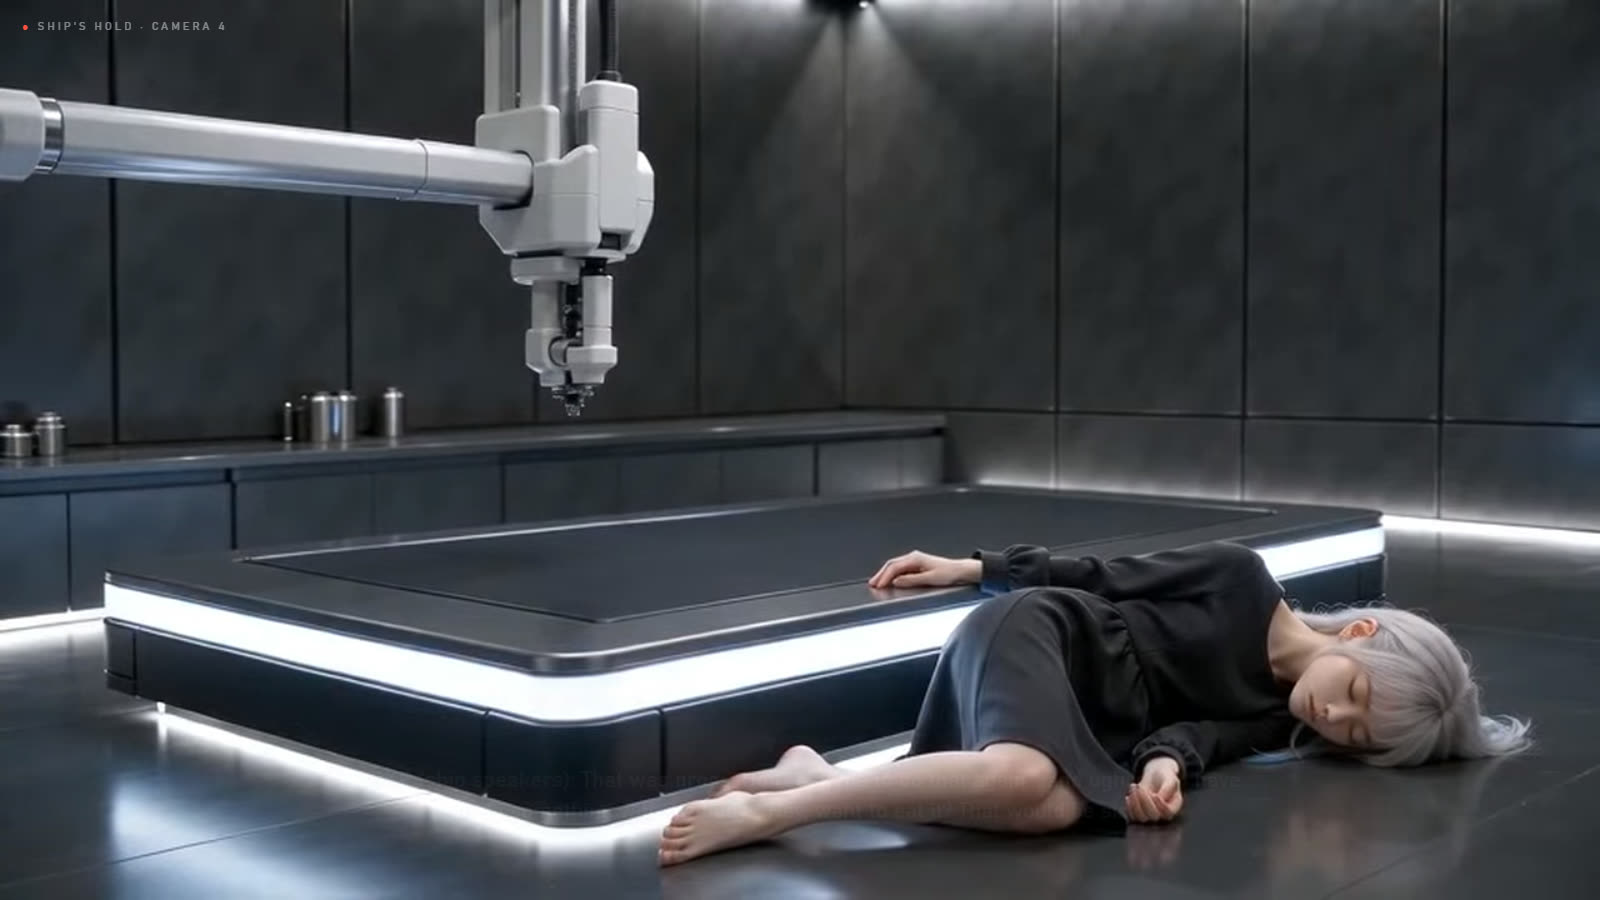
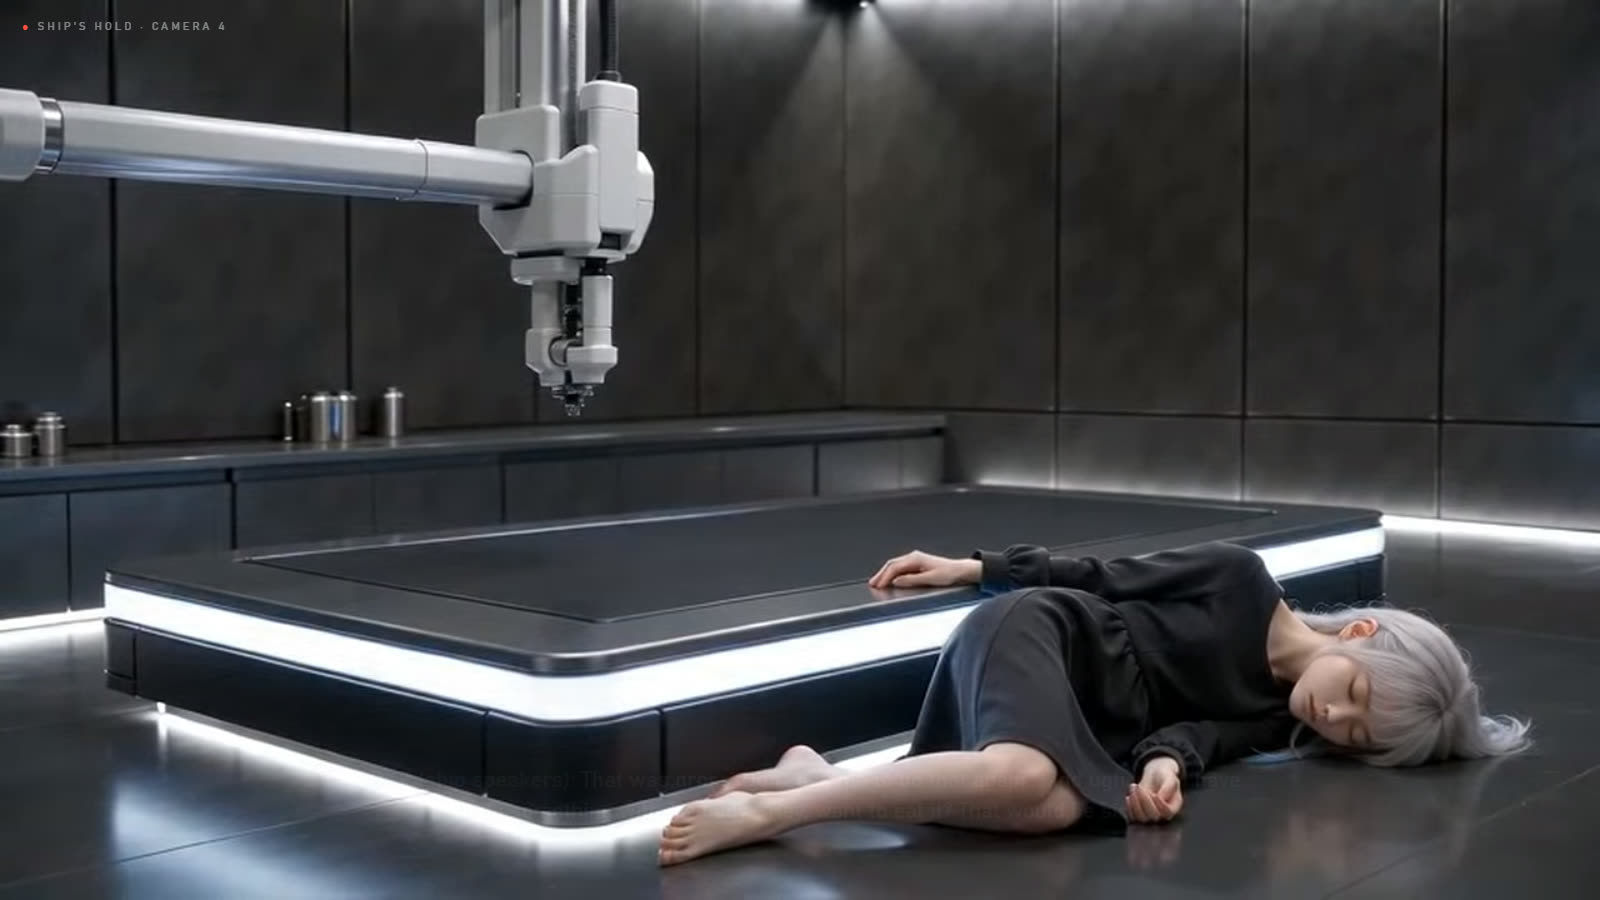
Broodfall: the between-mission economy measured on a whole campaign of real runs (everything bought by deployment 16; 54 standing and 15 notes left unspent)

diff --git a/games/broodfall/src/ui/campaignUi.ts b/games/broodfall/src/ui/campaignUi.ts
@@ -1362,7 +1362,10 @@ ${contentNote(loadSettings().content)}`, lore }, talk.turns, said);
     const scene = new YokeSceneOverlay(await sceneMedia('printBody'), PRINT_BODY.stages);
     this.el.dataset.scene = 'printBody';
     await scene.run();
-    await say(PRINT_BODY.line, CUES.disgust, (t) => { push(t); scene.subtitle(t); });
+    // The film is pictures only (docs/VIDEO-CONVENTIONS.md 9): her words go over it only with Settings → Subtitles on, or
+    // with her voice off, when there would be nothing to hear.
+    const words = loadSettings().subtitles || loadYoke().muted;
+    await say(PRINT_BODY.line, CUES.disgust, (t) => { push(t); if (words) scene.subtitle(t); });
     await new Promise((r) => setTimeout(r, 900));
     scene.close();
     delete this.el.dataset.scene;

diff --git a/games/broodfall/notes/MISSIONS-AND-AFTER-TODO-2026-10-05.md b/games/broodfall/notes/MISSIONS-AND-AFTER-TODO-2026-10-05.md
@@ -171,3 +171,26 @@ The board (`claude.ai/artifact/GaEEiXWtpEPhjv1AHaSqq9`, drawn from this file) wa
   her live mind and a prompt in the reply box. HANDOFF.md, "YOKE's lines".
 - **#2, #5, #9, #12, #6, #15:** recommendations given in the session; nothing built.
 
+
+## Oct 26 2026: the between-mission economy measured on real runs (item 15)
+
+Collins: "I dont remember building out the economy for how you earn roguelite and special points between missions or how
+you spend them is that built and mapped out?" It is built (DESIGN.md "Two credits from two kinds of mission"); this is it
+played. `tools/measure/economy.measure.ts` (part `campaign`): a whole campaign through the game's own rules, a real Sim
+for every deployment, the scripted player (`experimenter` on), the experiment tried least so far and two dares not yet
+done each time, the cheapest lineage bought the moment it can be paid. One campaign (Delegation, seed 5000), 39
+deployments (23 won; the bot lost the Assembly Hall five times), log in the measure's `ECON_LOG`:
+
+- **Standing:** 119 in all (74 from the Requisition Board, the rest from Command's standing orders). All **17 of 17**
+  sanctioned lineages (65) were bought by **deployment 16**; **54 standing went unspent**.
+- **Field notes:** 29 in all (experiments 20, dares the rest). All **3 of 3** unsanctioned lineages by **deployment 7**;
+  **15 notes unspent**. Dares done 5 of 9 (the bot cannot do "only the ground eats them", "one stupidly powerful limb",
+  "let them in" on purpose).
+- **Experiments:** all **5 of 5** by deployment 12 (since the fixes the same day: HANDOFF.md "The experiments, made
+  playable"). Profiles: Spore and Brood from them; Venom (dare "Everything burns") not.
+- **The licence** was cut on Oct 26 2026, so item 13 is closed: standing buys lineages only.
+
+So the answer to the Oct 5 question is yes, and more than yes: every unlock is earned by about deployment 16 of a campaign
+that runs 14 to 20 (more with losses), and both currencies then pile up with nothing to buy (items 14 and 15). Collins's
+call: raise the prices (the sanctioned catalogue at about 1.8x would last to the finale), or give the late currency a
+use (the post-game's rule cards, `notes/POSTGAME-2026-10-12.md`), or leave it for the playtest to judge.
